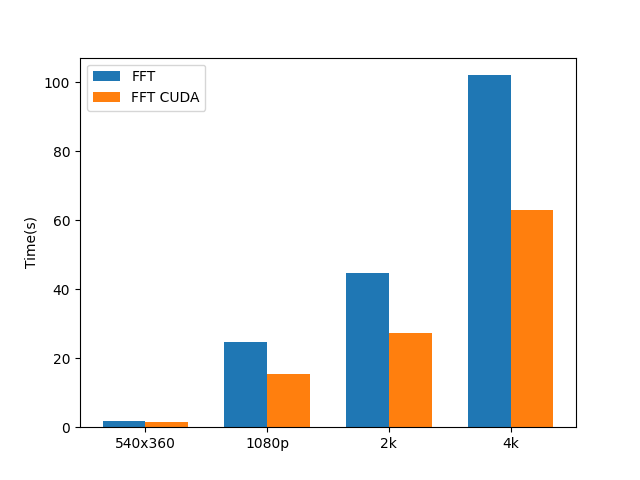
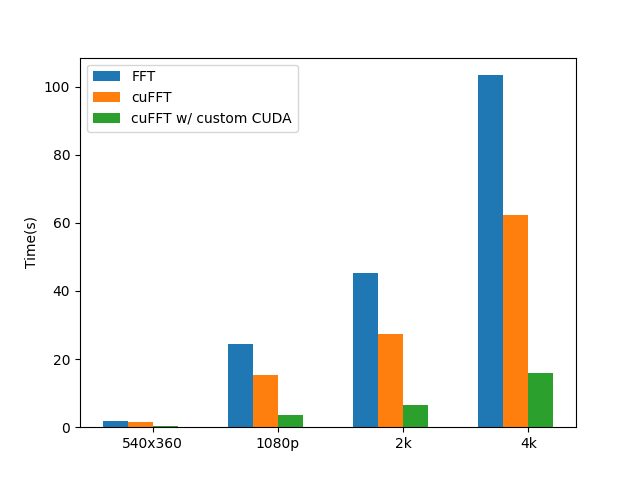
fix cuda2 bug

diff --git a/benchmark.py b/benchmark.py
@@ -38,48 +38,65 @@ test4 = argparse.Namespace(**test4)
 
 s12 = FFT_Solver(test1)
 s13 = FFT_Solver_CUDA(test1)
+s14 = FFT_Solver_CUDA2(test1)
 
 s22 = FFT_Solver(test2)
 s23 = FFT_Solver_CUDA(test2)
+s24 = FFT_Solver_CUDA2(test2)
 
 s32 = FFT_Solver(test3)
 s33 = FFT_Solver_CUDA(test3)
+s34 = FFT_Solver_CUDA2(test3)
 
 s42 = FFT_Solver(test4)
 s43 = FFT_Solver_CUDA(test4)
+s44 = FFT_Solver_CUDA2(test4)
 
 # s11.solve()
+
 s12.solve()
 s13.solve()
+s14.solve()
 
 s22.solve()
 s23.solve()
+s24.solve()
 
 s32.solve()
 s33.solve()
+s34.solve()
 
 s42.solve()
 s43.solve()
+s44.solve()
 
 # plot figure
 
 labels = ['540x360','1080p','2k','4k'] 
+
 fft = [s12.duration, 
        s22.duration,
        s32.duration,
        s42.duration]
 
-fft_cuda = [s13.duration,
-            s23.duration,
-            s33.duration,
-            s43.duration]
+cufft = [s13.duration,
+         s23.duration,
+         s33.duration,
+         s43.duration]
+
+custom_cuda = [s14.duration,
+                s24.duration,
+                s34.duration,
+                s44.duration]
+
 
 x = np.arange(len(labels))  # the label locations
-width = 0.35  # the width of the bars
+width = 0.2  # the width of the bars
 
 fig, ax = plt.subplots()
-rects1 = ax.bar(x - width/2, fft, width, label='FFT')
-rects2 = ax.bar(x + width/2, fft_cuda, width, label='FFT CUDA')
+rects1 = ax.bar(x - 1.5 * width, fft, width, label='FFT')
+rects2 = ax.bar(x - 0.5 * width, cufft, width, label='cuFFT')
+rects2 = ax.bar(x + 0.5 * width, custom_cuda, width, label='cuFFT w/ custom CUDA')
 
 # Add some text for labels, title and custom x-axis tick labels, etc.
 ax.set_ylabel('Time(s)')

diff --git a/readme.md b/readme.md
@@ -50,7 +50,7 @@ python image.py -h
  ```
  如果不指定输出文件，将会在当前路径下生成`res.jpg`
 
- 以下是$w/o$ CUDA和$w/$ CUDA的运行速度对比，你可以通过执行`python benchmark.py`得到该图片
+ 以下是FFT, cuFFT和$w/$ custom CUDA的运行速度对比，你可以通过执行`python benchmark.py`得到该图片
 
  ![](benchmark.png)
 
